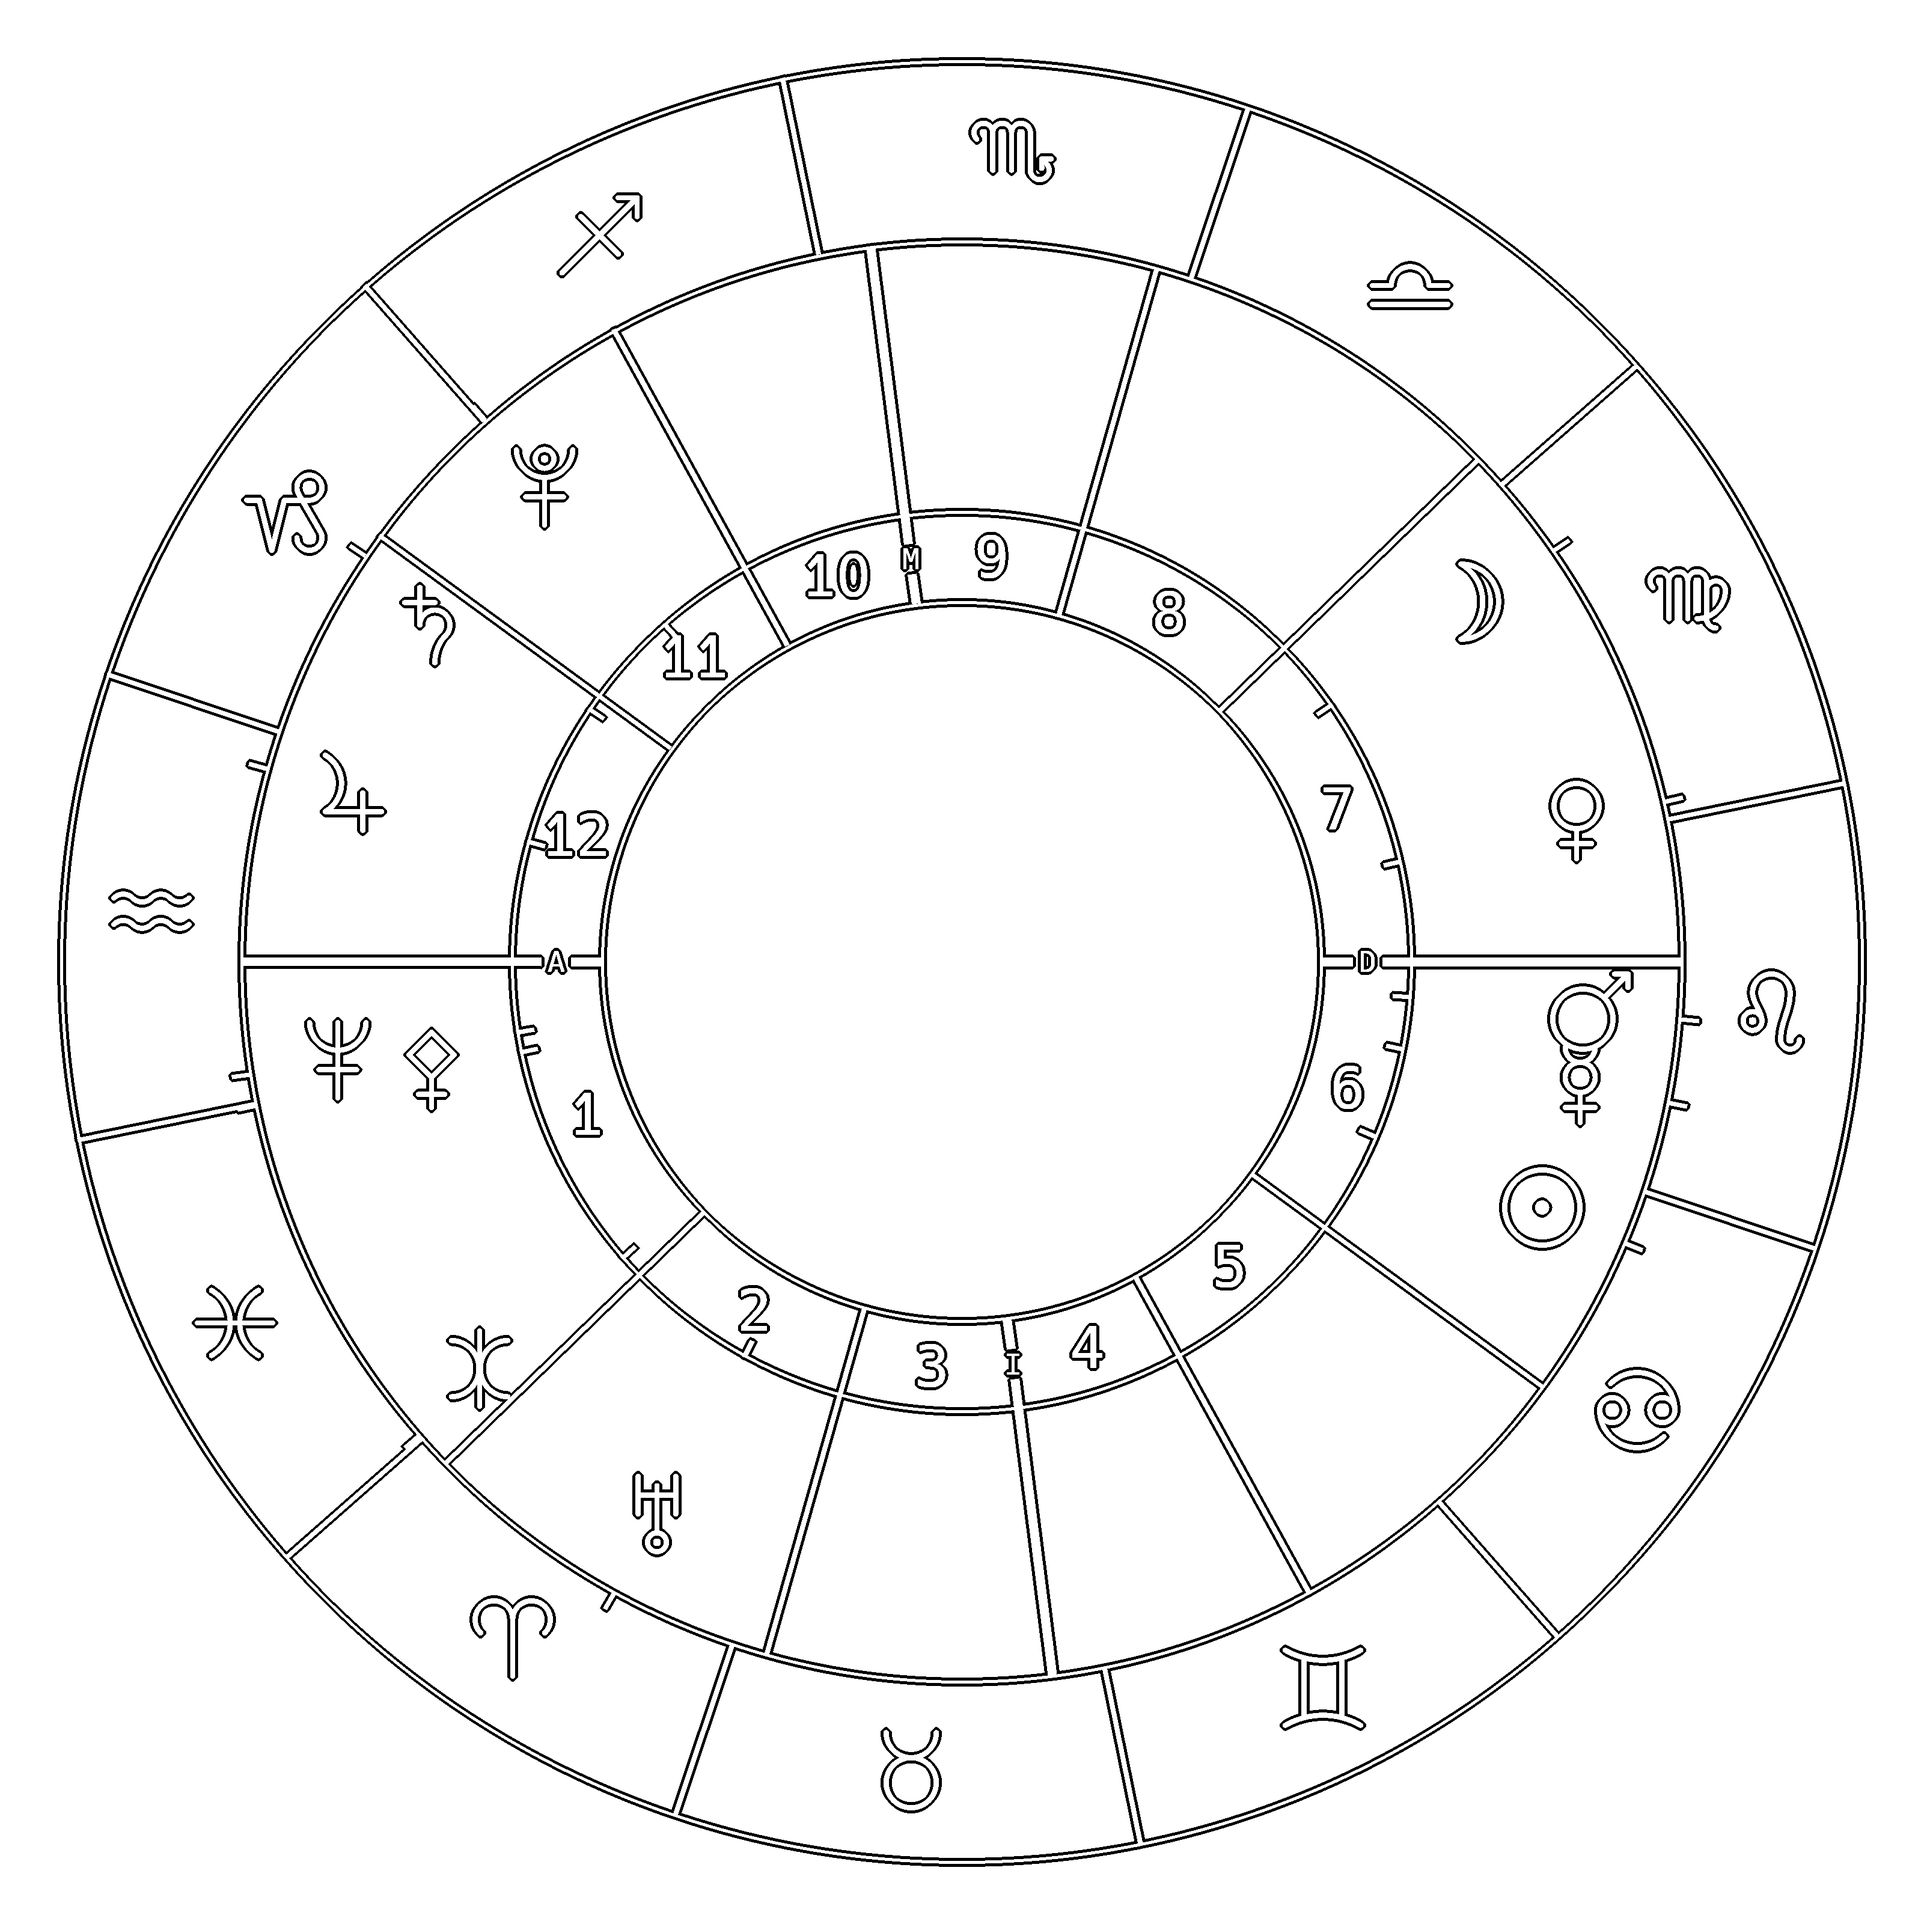
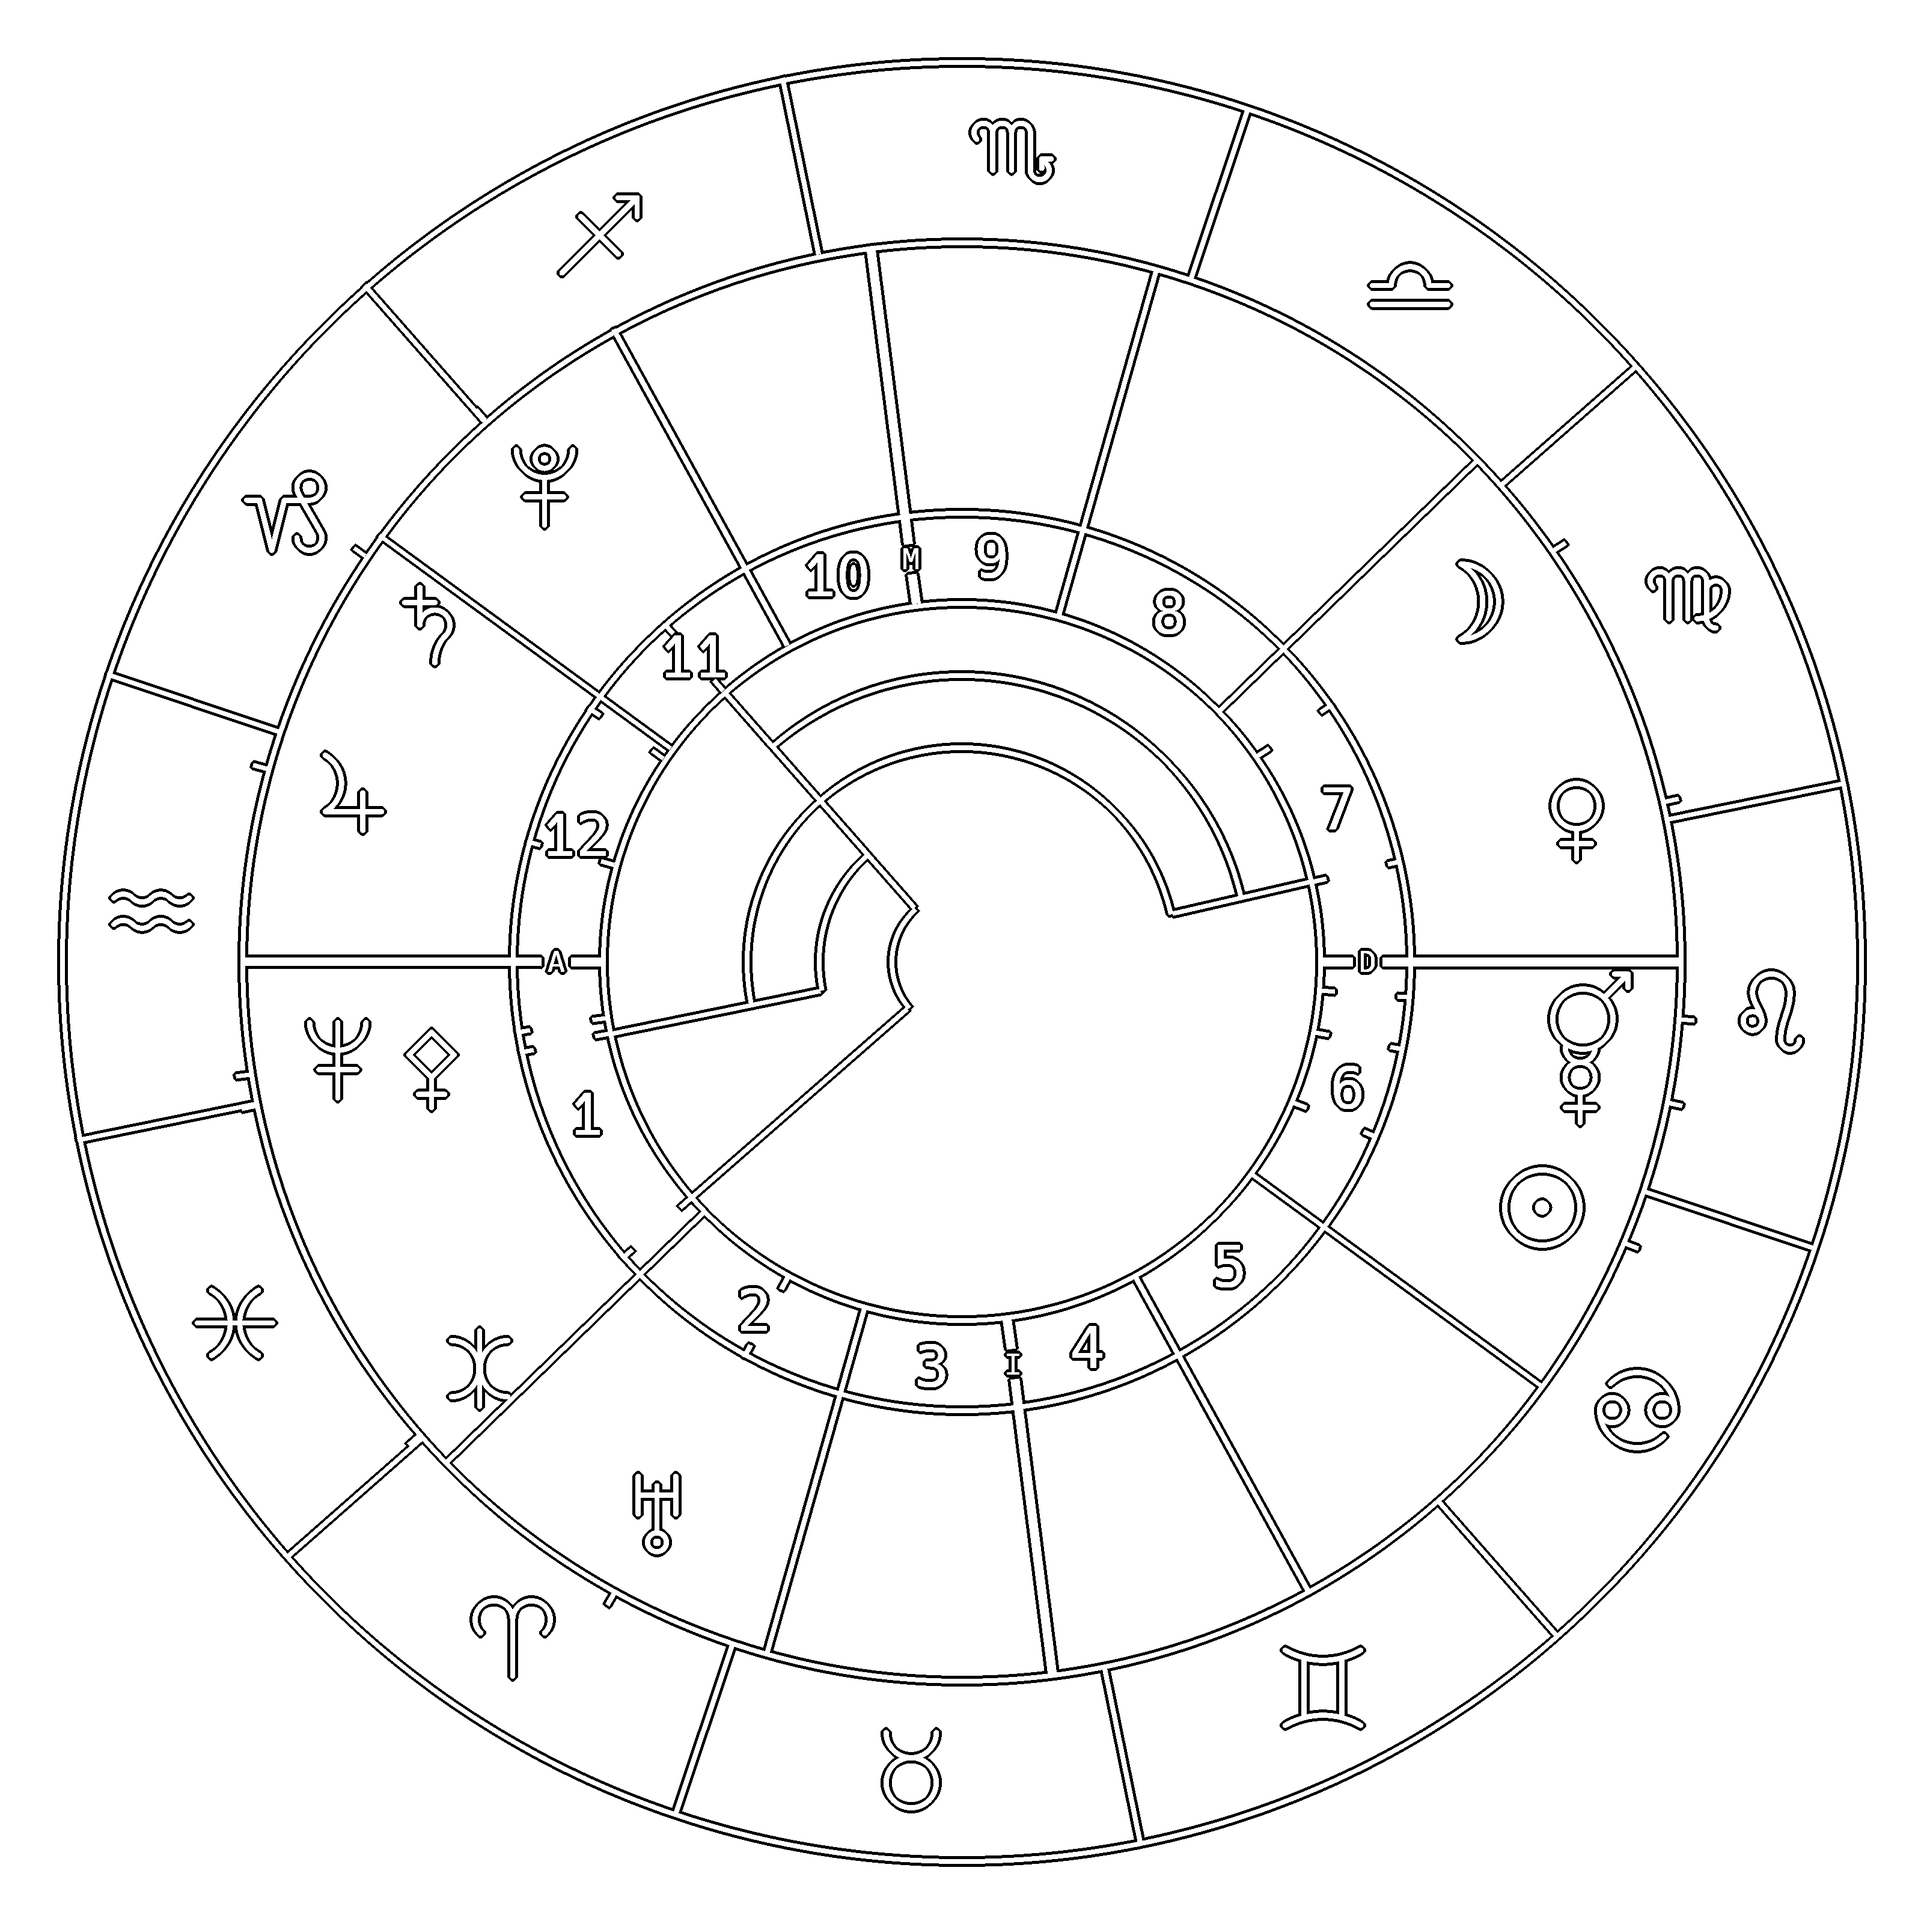
Add improved aspect rendering

diff --git a/astrohud/gui/util.py b/astrohud/gui/util.py
@@ -1,17 +1,20 @@
 from typing import Tuple
+from typing import List
 from typing import Union
 from typing import Optional
+from typing import Set
 from enum import Enum
 import math
 import os
 
 from PIL import Image
 from PIL import ImageDraw
-from PIL import ImageFilter
 from PIL import ImageFont
 
 from astrohud.astro.model import Horoscope
+from astrohud.astro.enums import Aspect
 from astrohud.astro.enums import Sign
+from astrohud.gui.model import RenderSettings
 
 
 COLOR_ALPHA = (255, 255, 255, 0)
@@ -22,17 +25,22 @@ COLOR_WHITE = (255, 255, 255, 255)
 MAX_RADIUS = 1500
 IMAGE_PAD = 100
 
+
 ZODIAC_OUT_RADIUS = MAX_RADIUS * 1.0
 ZODIAC_IN_RADIUS = MAX_RADIUS * 0.8
+
 
 HOUSE_OUT_RADIUS = MAX_RADIUS * 0.5
 HOUSE_IN_RADIUS = MAX_RADIUS * 0.4
 
+
 PLANET_1_RADIUS = MAX_RADIUS * 0.7
 PLANET_2_RADIUS = MAX_RADIUS * 0.6
-TIP_RADIUS = MAX_RADIUS * 0.02
+TIP_RADIUS = MAX_RADIUS * 0.015
+
 
 NUDGE_ANGLE = 4
+
 
 FONT_FILE = os.path.join(os.path.dirname(os.path.dirname(__file__)), 'font/HackNerdFont-Regular.ttf')
 IMG_FOLDER =  os.path.join(os.path.dirname(os.path.dirname(__file__)), 'img')
@@ -42,7 +50,8 @@ SMALL_FONT = ImageFont.truetype(FONT_FILE, size=48, encoding='unic')
 
 def get_symbol(name: str) -> Image.Image:
     img = Image.open(os.path.join(IMG_FOLDER, f'{name.lower()}.png'))
-    return img.convert('RGBA')
+
+    return img.convert('RGBA').resize((150, 150))
 
 
 def polar_to_xy(rho: float, phi: float) -> Tuple[float, float]:
@@ -56,13 +65,34 @@ def polar_to_xy(rho: float, phi: float) -> Tuple[float, float]:
 
 
 def draw_circle(draw: ImageDraw.Draw, radius: float):
-    draw.circle(polar_to_xy(0, 0), radius, width=5, fill=COLOR_ALPHA, outline=COLOR_WHITE)
+    draw.circle(polar_to_xy(0, 0), radius, width=8, outline=COLOR_WHITE)
 
 
-def draw_spoke(draw: ImageDraw.Draw, r1: float, r2: float, angle: float, width: float):
-    a = polar_to_xy(r1, angle)
-    b = polar_to_xy(r2, angle)
+def draw_spoke(draw: ImageDraw.Draw, r1: float, r2: float, phi: float, width: float):
+    a = polar_to_xy(r1, phi)
+    b = polar_to_xy(r2, phi)
     draw.line(a + b, fill=COLOR_WHITE, width=width)
+
+
+def draw_chord(draw: ImageDraw.Draw, r: float, phi1: float, phi2: float, width: float):
+    a = polar_to_xy(r, phi1)
+    b = polar_to_xy(r, phi2)
+    draw.line(a + b, fill=COLOR_WHITE, width=width)
+
+
+def draw_arc(draw: ImageDraw.Draw, r: float, phi1: float, phi2: float, width: float):
+    box_min = polar_to_xy(r * math.sqrt(2), 315)
+    box_max = polar_to_xy(r * math.sqrt(2), 135)
+    draw.arc(box_min + box_max, phi1 + 180, phi2 + 180, fill=COLOR_WHITE, width=width)
+
+
+def draw_circle_cord(draw: ImageDraw.Draw, r: float, phi1: float, phi2: float, width: float):
+    a = polar_to_xy(r, phi1)
+    b = polar_to_xy(r, phi2)
+    mid = (a[0] + b[0]) / 2, (a[1] + b[1]) / 2
+    r2 = math.sqrt((a[0] - b[0])**2 + (a[1] - b[1])**2)
+
+    draw.circle(mid, max(r2 / 2, TIP_RADIUS), width=width, fill=COLOR_WHITE, outline=COLOR_WHITE)
 
 
 def label_point(draw: ImageDraw.Draw, rho: float, phi: float, label: Union[str, Enum], small: bool = False):
@@ -71,8 +101,8 @@ def label_point(draw: ImageDraw.Draw, rho: float, phi: float, label: Union[str, 
     if isinstance(label, str):
         draw.text(xy, label, font=font, fill=COLOR_WHITE, anchor='mm')
     else:
-        img = get_symbol(label.name).resize((150, 150))
-        draw.bitmap((xy[0] - 75, xy[1] - 75), img, fill=COLOR_WHITE)
+        img = get_symbol(label.name)
+        draw.bitmap((xy[0] - (img.width / 2), xy[1] - (img.width / 2)), img, fill=COLOR_WHITE)
 
 
 def label_quad(draw: ImageDraw.Draw, r1: float, r2: float, a1: float, a2: float, label: str, small: bool = False):
@@ -85,16 +115,42 @@ def label_quad(draw: ImageDraw.Draw, r1: float, r2: float, a1: float, a2: float,
     label_point(draw, rho, phi, label, small)
 
 
-def find_collision(phi: float, avoid: float) -> Optional[float]:
+def close_angles(phi1: float, phi2: float) -> Tuple[float, float]:
+    while phi1 - phi2 > 180:
+        phi1 -= 360
+    while phi2 - phi1 > 180:
+        phi1 += 360
+
+    return phi1, phi2
+
+
+def compare_angles(phi1: float, phi2: float) -> float:
+    a1, a2 = close_angles(phi1, phi2)
+    return a1 - a2
+
+
+def sort_angles(phi1: float, phi2: float) -> Tuple[float, float]:
+    if compare_angles(phi1, phi2) > 0:
+        return phi2, phi1
+    return phi1, phi2
+
+
+def find_collision(phi: float, avoid: List[float]) -> Optional[float]:
     for a in avoid:
-        if a - phi > 180:
-            a -= 360
-        if phi - a > 180:
-            a += 360
+        a, phi = close_angles(a, phi)
 
         if abs(a - phi) < NUDGE_ANGLE:
             return a
     return None
+
+
+def check_arc_collision(arc1: Tuple[float, float], arc2: Tuple[float, float]) -> bool:
+    comp_start = compare_angles(arc1[0], arc2[0])
+    if comp_start > 0:
+        cross = compare_angles(arc1[0], arc2[1]) - 30
+    else:
+        cross = compare_angles(arc2[0], arc1[1]) - 30
+    return cross < 0
 
 
 def nudge_coords(phi: float, avoid: float) -> float:
@@ -106,12 +162,17 @@ def nudge_coords(phi: float, avoid: float) -> float:
     return a + NUDGE_ANGLE
 
 
-def apply_outline(img: Image.Image) -> Image.Image:
-    pixels = dict()
+def get_pixels(img: Image.Image) -> Set[Tuple[int, int]]:
+    pixels = set()
     for i, pix in enumerate(img.getdata()):
         if pix != COLOR_ALPHA:
             xy = i % img.width, i // img.width
-            pixels[xy] = 0
+            pixels.add(xy)
+    return pixels
+
+
+def apply_outline(img: Image.Image) -> Image.Image:
+    pixels = {xy: 0 for xy in get_pixels(img)}
     
     fringe = set(pixels.keys())
     while len(fringe) > 0:
@@ -130,28 +191,24 @@ def apply_outline(img: Image.Image) -> Image.Image:
     return img
 
 
-def draw_horoscope(horoscope: Horoscope) -> Image.Image:
-    width = (MAX_RADIUS + IMAGE_PAD) * 2 + 1
-    img = Image.new("RGBA", (width, width), COLOR_ALPHA)
-    draw = ImageDraw.Draw(img)
-
+def draw_structure(draw: ImageDraw.Draw, settings: RenderSettings):
     draw_circle(draw, ZODIAC_OUT_RADIUS)
     draw_circle(draw, ZODIAC_IN_RADIUS)
     draw_circle(draw, HOUSE_OUT_RADIUS)
     draw_circle(draw, HOUSE_IN_RADIUS)
-
-    asc_angle = horoscope.ascending.abs_angle
+    
     for x in range(12):
-        phi = (x * 30) - asc_angle
+        phi = (x * 30) - settings.asc_angle
         draw_spoke(draw, ZODIAC_IN_RADIUS, ZODIAC_OUT_RADIUS, phi, 8)
         label_quad(draw, ZODIAC_IN_RADIUS, ZODIAC_OUT_RADIUS, phi, phi + 30, Sign(x))
 
-    cusps = [horoscope.cusps[h] for h in sorted(horoscope.cusps.keys(), key=lambda x: x.value)]
-    next_cusps = cusps[1:] + [cusps[0]]
+
+def draw_houses(draw: ImageDraw.Draw, settings: RenderSettings):
+    next_cusps = settings.cusps[1:] + [settings.cusps[0]]
     spoke_labels = ['A', 'I', 'D', 'M']
-    for x in range(len(cusps)):
-        phi = cusps[x] - asc_angle
-        phi_2 = next_cusps[x] - asc_angle
+    for x in range(len(settings.cusps)):
+        phi = settings.cusps[x] - settings.asc_angle
+        phi_2 = next_cusps[x] - settings.asc_angle
         width = 8
         if x % 3 == 0:
             width = 15
@@ -163,17 +220,88 @@ def draw_horoscope(horoscope: Horoscope) -> Image.Image:
             draw_spoke(draw, HOUSE_IN_RADIUS, ZODIAC_IN_RADIUS, phi, width)
         label_quad(draw, HOUSE_IN_RADIUS, HOUSE_OUT_RADIUS, phi, phi_2, str(x + 1))
 
+
+def draw_planets(draw: ImageDraw.Draw, horoscope: Horoscope, settings: RenderSettings):
     placed_planets = []
     for planet, horo in horoscope.planets.items():
-        phi = horo.position.abs_angle - asc_angle
-        nudge_phi = nudge_coords(horo.position.abs_angle, cusps) - asc_angle
+        phi = horo.position.abs_angle - settings.asc_angle
+        nudge_phi = nudge_coords(horo.position.abs_angle, settings.cusps) - settings.asc_angle
         planet_radius = PLANET_1_RADIUS
         if find_collision(nudge_phi, placed_planets):
             planet_radius = PLANET_2_RADIUS
         label_point(draw, planet_radius, nudge_phi, planet)
         draw_spoke(draw, ZODIAC_IN_RADIUS, ZODIAC_IN_RADIUS + TIP_RADIUS, phi, 8)
         draw_spoke(draw, HOUSE_OUT_RADIUS, HOUSE_OUT_RADIUS - TIP_RADIUS, phi, 8)
+        draw_spoke(draw, HOUSE_IN_RADIUS, HOUSE_IN_RADIUS + TIP_RADIUS, phi, 8)
         placed_planets.append(nudge_phi)
+
+
+def draw_classic_aspects(draw: ImageDraw.Draw, horoscope: Horoscope, settings: RenderSettings):
+    for planets, aspect in horoscope.aspects.items():
+        a1 = horoscope.planets[planets.planet1].position.abs_angle - settings.asc_angle
+        a2 = horoscope.planets[planets.planet2].position.abs_angle - settings.asc_angle
+
+        r = HOUSE_IN_RADIUS
+        if aspect.aspect == Aspect.CONJUNCTION:
+            draw_circle_cord(draw, r, a1, a2, 8)
+        else:
+            draw_chord(draw, r, a1, a2, 8)
+
+
+def draw_improved_aspects(draw: ImageDraw.Draw, horoscope: Horoscope, settings: RenderSettings):
+    arcs = list()
+    for planets, aspect in horoscope.aspects.items():
+        a1 = horoscope.planets[planets.planet1].position.abs_angle - settings.asc_angle
+        a2 = horoscope.planets[planets.planet2].position.abs_angle - settings.asc_angle
+
+        if aspect.aspect == Aspect.CONJUNCTION:
+            draw_circle_cord(draw, HOUSE_IN_RADIUS, a1, a2, 8)
+        else:
+            a1, a2 = sort_angles(-a1, -a2)
+            arcs.append((a1, a2))
+
+    collision_matrix = [[check_arc_collision(a1, a2) for a1 in arcs] for a2 in arcs]
+    collisions = sorted(enumerate([sum(row) for row in collision_matrix]), key=lambda t: t[1])
+    remaining_arcs = list(range(len(arcs)))
+    arc_groups = []
+    for i, _ in collisions:
+        group = [i]
+        if i not in remaining_arcs:
+            continue
+        remaining_arcs.remove(i)
+        for j in remaining_arcs:
+            if sum(collision_matrix[k][j] for k in group) == 0:
+                remaining_arcs.remove(j)
+                group.append(j)
+        arc_groups.append(group)
+
+    radius = HOUSE_IN_RADIUS
+    for group in arc_groups:
+        radius -= HOUSE_IN_RADIUS / (len(arc_groups) + 1)
+        for i in group:
+            phi1, phi2 = arcs[i]
+            draw_arc(draw, radius, phi1, phi2, 8)
+            draw_spoke(draw, HOUSE_IN_RADIUS, radius, -phi1, 8)
+            draw_spoke(draw, HOUSE_IN_RADIUS, radius, -phi2, 8)
+
+
+def draw_horoscope(horoscope: Horoscope) -> Image.Image:
+    width = (MAX_RADIUS + IMAGE_PAD) * 2 + 1
+    img = Image.new("RGBA", (width, width), COLOR_ALPHA)
+    draw = ImageDraw.Draw(img)
+    asc_angle = horoscope.ascending.abs_angle
+    cusps = [horoscope.cusps[h] for h in sorted(horoscope.cusps.keys(), key=lambda x: x.value)]
+
+    settings = RenderSettings(
+        asc_angle=asc_angle,
+        cusps=cusps,
+    )
+
+    draw_structure(draw, settings)
+    draw_houses(draw, settings)
+    draw_planets(draw, horoscope, settings)
+    #draw_classic_aspects(draw, horoscope, settings)
+    draw_improved_aspects(draw, horoscope, settings)
 
     return apply_outline(img)
 
